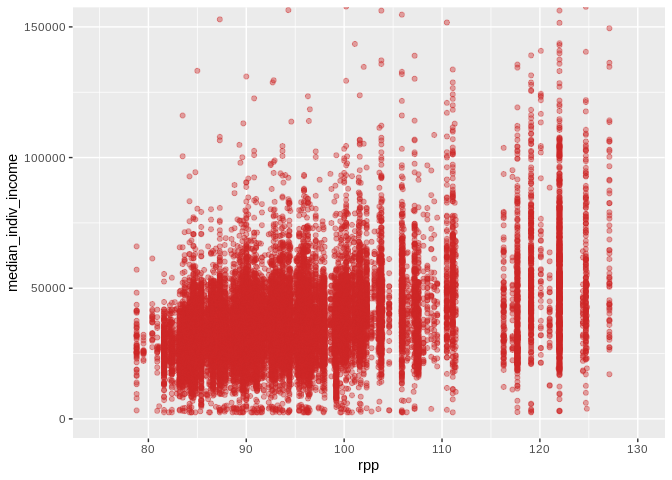
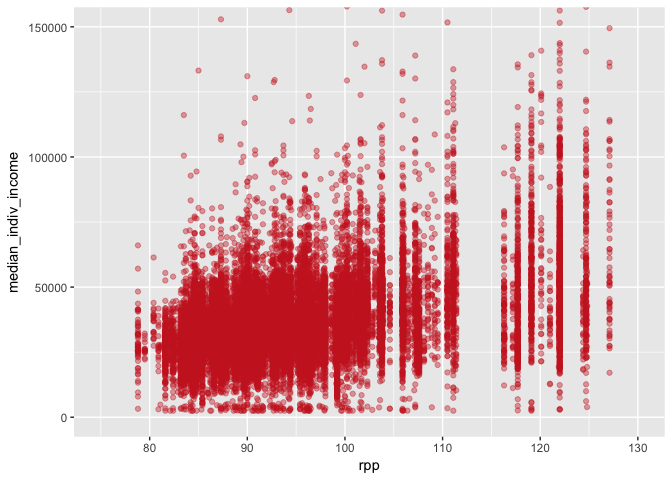
more EDA work

diff --git a/exploratory_analysis.md b/exploratory_analysis.md
@@ -1,7 +1,7 @@
 Exploratory Analysis
 ================
 
-Now that we've aggregated potentially relevant data we want to do an exploratory analysis to look at our features. For this competition we are tasked with creating a scoring metric without any data to evaluate against. Thus, we only have guesses as to characteristics constitute a high scoring ZIP code. It also means we are not able to incorporate any kind of supervised learning.
+Now that we've aggregated potentially relevant data we want to do an exploratory analysis to look at our features. For this competition we are tasked with creating a scoring metric without any data to evaluate against. Thus, we only have guesses as to characteristics that constitute a high scoring ZIP code. It also means we are not able to incorporate any kind of supervised learning.
 
 First, we want to look for correlations among variables. If two or more variables are highly correlated there may not be any use in trying to include all the correlated variables in a scoring model.
 
@@ -26,7 +26,7 @@ Not surpisingly, this is highly skewed. Zip codes are designed to aid in postal 
 Our main concern is that some variables are highly correlated and thus including them individually in our simple scoring model is needlessly complex. This data may be more useful in its entirety with known response data, where features could be evaluated for importance.
 
 ``` r
-ggplot(subset, aes(rpp, median_indiv_income)) + geom_point(color="firebrick3", fill="firebrick3", alpha=0.4) + coord_cartesian(xlim=c(75,130), ylim=c(0,150000))
+ggplot(subset, aes(rpp, median_indiv_income)) + geom_point(color="firebrick3", alpha=0.4) + coord_cartesian(xlim=c(75,130), ylim=c(0,150000))
 ```
 
 ![](exploratory_analysis_files/figure-markdown_github/unnamed-chunk-3-1.png)
@@ -36,29 +36,47 @@ This is median invididual income by zip code as a function of regional price par
 RPP and median individual income seem to be roughly correlated here. There seems to be a positive correlation, but RPP may still be a valuable variable for our pricing model in that it may allow us to slide the income-weighting formula.
 
 ``` r
-ggplot(subset, aes(median_indiv_income, life_expectancy)) + geom_point(color="springgreen3", fill="springgreen3", alpha=0.3) + coord_cartesian(xlim=c(0,150000), ylim=c(55,95))
+ggplot(subset, aes(median_indiv_income, life_expectancy)) + geom_point(color="springgreen3", alpha=0.3) + coord_cartesian(xlim=c(0,150000), ylim=c(55,95))
 ```
 
 ![](exploratory_analysis_files/figure-markdown_github/unnamed-chunk-4-1.png)
 
 There is a very clear relationship between the median individual income for a zip code and the floor of life expectancy. This is fairly easy to believe. We were thinking that the life expectancy for a zip code may potentially impact the target customer age for that zip code.
 
-Is there any relationship between longitude and a the relative frequency of individuals ages 45-59 in a zip code?
+Is there any relationship between latitude and the relative frequency of individuals ages 45-59 in a zip code?
 
 ``` r
-ggplot(subset, aes(longitude, freq_pop_45.49 + freq_pop_50.54 + freq_pop_55.59)) + geom_point(color="royalblue3", fill="royalblue3", alpha=0.3) + coord_cartesian(xlim=c(-130,-70), ylim=c(0,.5))
+ggplot(subset, aes(latitude, freq_pop_45.49 + freq_pop_50.54)) + geom_point(color="royalblue3", alpha=0.3) + coord_cartesian(xlim=c(25,50), ylim=c(0,.5))
 ```
 
 ![](exploratory_analysis_files/figure-markdown_github/unnamed-chunk-5-1.png)
 
 Probably not.
 
-####################### 
-
-testing stuffs
+Is life expectancy for a zip code related to the frequency of the 75+ age group?
 
 ``` r
-ggplot(subset, aes(freq_pop_45.49 + freq_pop_50.54 + freq_pop_55.59)) + geom_density(color="red", fill="red", alpha=0.4) + theme(legend.position="none")
+ggplot(subset, aes(life_expectancy, freq_pop_75.inf)) + geom_point(color="coral1", alpha=0.3) + coord_cartesian(xlim=c(60,90), ylim=c(0,.5))
 ```
 
 ![](exploratory_analysis_files/figure-markdown_github/unnamed-chunk-6-1.png)
+
+``` r
+ggplot(subset, aes(rpp, freq_pop_45.49 + freq_pop_50.54)) + geom_point(color="coral1", alpha=0.3) + coord_cartesian(xlim=c(75,120), ylim=c(0,.5))
+```
+
+![](exploratory_analysis_files/figure-markdown_github/unnamed-chunk-7-1.png) Cost of living does not appear to correlate with the frequency of the population in our target age group.
+
+Here we can see the frequency of our target population:
+
+``` r
+ggplot(subset, aes(freq_pop_45.49 + freq_pop_50.54)) + geom_density(color="cyan3", fill="cyan3", alpha=0.4) + theme(legend.position="none")
+```
+
+![](exploratory_analysis_files/figure-markdown_github/unnamed-chunk-8-1.png) For most zip codes, our target ages make up ~13% of the population.
+
+``` r
+ggplot(subset, aes(rpp, life_expectancy)) + geom_point(color="darkorchid1", alpha=0.3) + coord_cartesian(xlim=c(75,120), ylim=c(62.5,90))
+```
+
+![](exploratory_analysis_files/figure-markdown_github/unnamed-chunk-9-1.png) It is hard to see a correlation between cost of living and life expectancy, but it seems like there might be a slight positive correlation here that could be supported with better data. It' does somewhat make sense, as 's possible that wealthier individuals who are able to afford life in high cost of living areas may have access to better healthcare, nutrition, and certain lifestyle factors.
